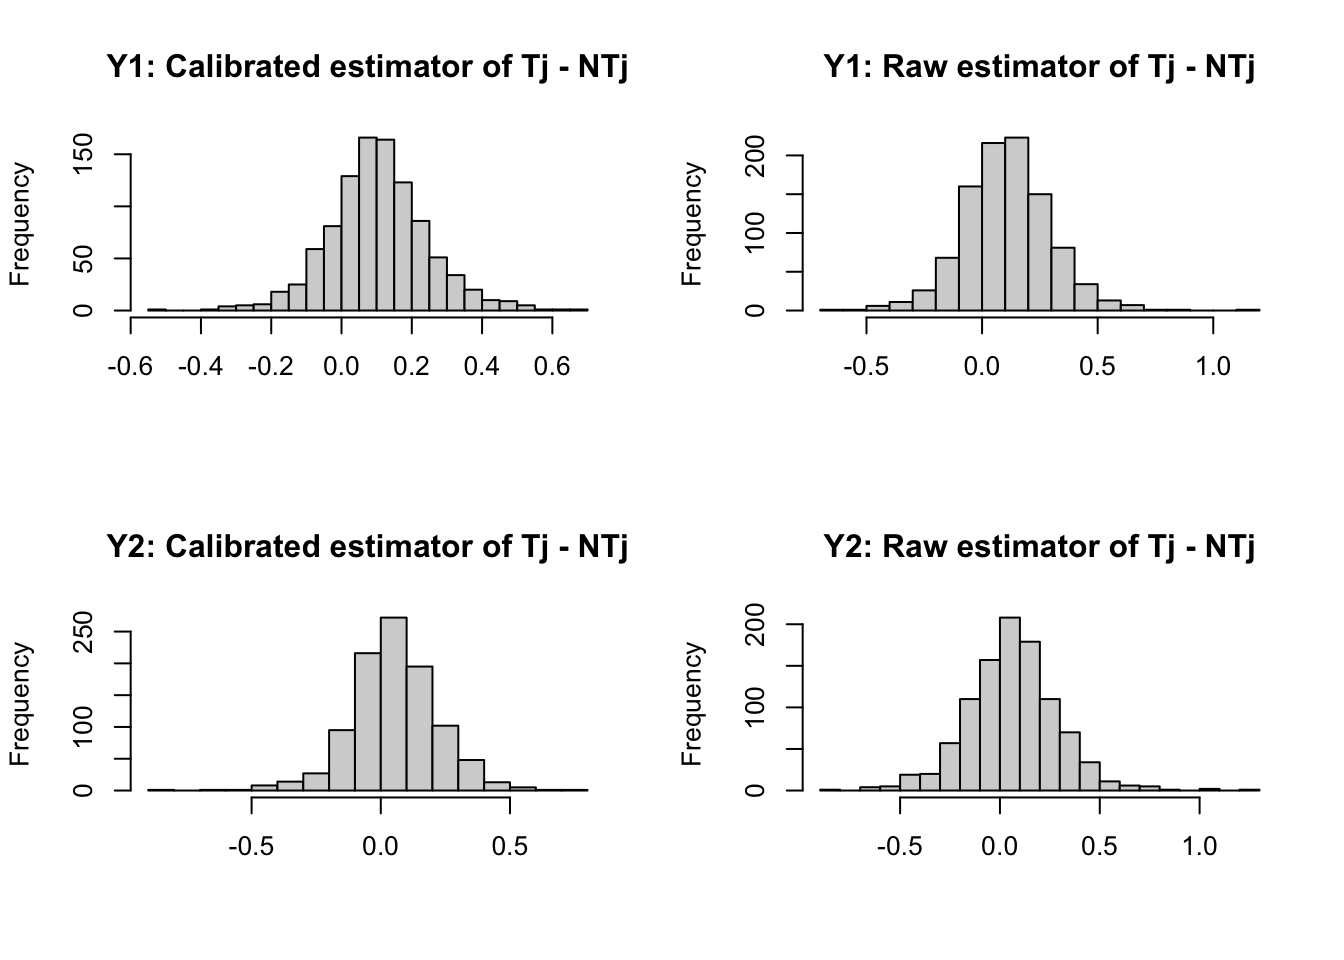
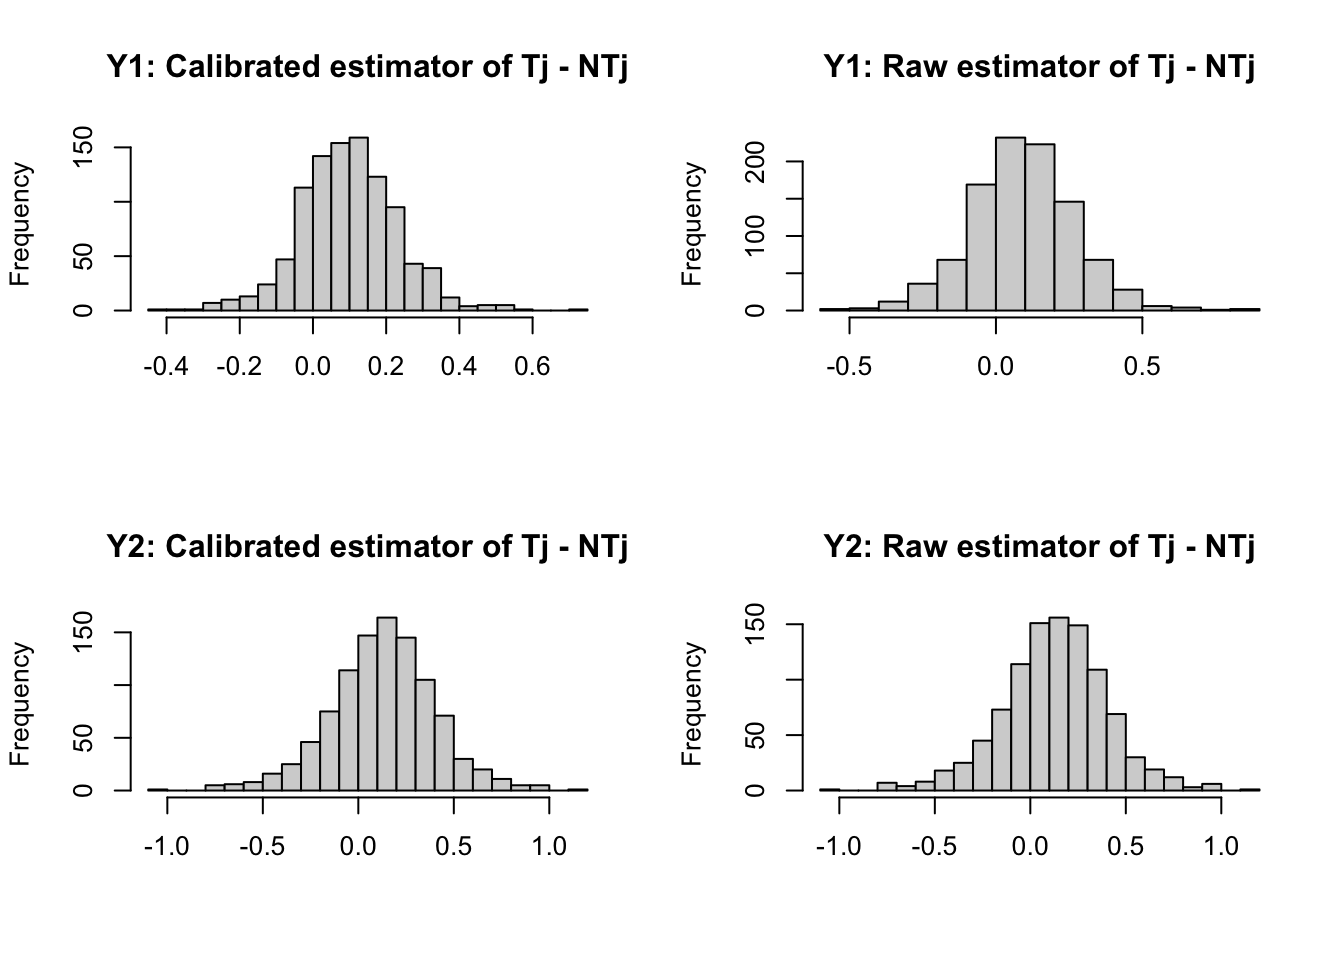
Build site.

diff --git a/docs/mr_real_dat.html b/docs/mr_real_dat.html
@@ -475,16 +475,16 @@ This reproducible <a href="http://rmarkdown.rstudio.com">R Markdown</a> analysis
 <div class="panel panel-default">
 <div class="panel-heading">
 <p class="panel-title">
-<a data-toggle="collapse" data-parent="#workflowr-checks" href="#strongRepositoryversionstrongahrefhttpsgithubcomyunqiyang0215simulationcalibratedmrtree8b572a268ba35aac732667ae901b18d2a2d4ceabtargetblank8b572a2a"> <span class="glyphicon glyphicon-ok text-success" aria-hidden="true"></span> <strong>Repository version:</strong> <a href="https://github.com/yunqiyang0215/simulation-calibrated-mr/tree/8b572a268ba35aac732667ae901b18d2a2d4ceab" target="_blank">8b572a2</a> </a>
+<a data-toggle="collapse" data-parent="#workflowr-checks" href="#strongRepositoryversionstrongahrefhttpsgithubcomyunqiyang0215simulationcalibratedmrtree8f9d8438a62ade37a087a58dd3231fdb4d3b2c3etargetblank8f9d843a"> <span class="glyphicon glyphicon-ok text-success" aria-hidden="true"></span> <strong>Repository version:</strong> <a href="https://github.com/yunqiyang0215/simulation-calibrated-mr/tree/8f9d8438a62ade37a087a58dd3231fdb4d3b2c3e" target="_blank">8f9d843</a> </a>
 </p>
 </div>
[2 lines of base64/hex data omitted]
 <div class="panel-body">
 <p>
 Great! You are using Git for version control. Tracking code development and connecting the code version to the results is critical for reproducibility.
 </p>
 <p>
-The results in this page were generated with repository version <a href="https://github.com/yunqiyang0215/simulation-calibrated-mr/tree/8b572a268ba35aac732667ae901b18d2a2d4ceab" target="_blank">8b572a2</a>. See the <em>Past versions</em> tab to see a history of the changes made to the R Markdown and HTML files.
+The results in this page were generated with repository version <a href="https://github.com/yunqiyang0215/simulation-calibrated-mr/tree/8f9d8438a62ade37a087a58dd3231fdb4d3b2c3e" target="_blank">8f9d843</a>. See the <em>Past versions</em> tab to see a history of the changes made to the R Markdown and HTML files.
 </p>
 <p>
 Note that you need to be careful to ensure that all relevant files for the analysis have been committed to Git prior to generating the results (you can use <code>wflow_publish</code> or <code>wflow_git_commit</code>). workflowr only checks the R Markdown file, but you know if there are other scripts or data files that it depends on. Below is the status of the Git repository when the results were generated:
@@ -550,6 +550,40 @@ Message
 </tr>
 </thead>
 <tbody>
+<tr>
+<td>
+Rmd
+</td>
+<td>
+<a href="https://github.com/yunqiyang0215/simulation-calibrated-mr/blob/8f9d8438a62ade37a087a58dd3231fdb4d3b2c3e/analysis/mr_real_dat.Rmd" target="_blank">8f9d843</a>
+</td>
+<td>
+yunqiyang0215
+</td>
+<td>
+2023-05-15
+</td>
+<td>
+wflow_publish("analysis/mr_real_dat.Rmd")
+</td>
+</tr>
+<tr>
+<td>
+html
+</td>
+<td>
+<a href="https://rawcdn.githack.com/yunqiyang0215/simulation-calibrated-mr/48ec1a1c43342b13bdff37aedb987981c89a6887/docs/mr_real_dat.html" target="_blank">48ec1a1</a>
+</td>
+<td>
+yunqiyang0215
+</td>
+<td>
+2023-05-15
+</td>
+<td>
+Build site.
+</td>
+</tr>
 <tr>
 <td>
 Rmd
@@ -632,11 +666,11 @@ colnames(y2.raw) &lt;- c(&quot;point_estimate&quot;, &quot;var_estimate&quot;)
 
   
 for (i in 1:p){
-  dat1_valid &lt;- cbind(dat[[&quot;pheno&quot;]][1:n,1], dat[[&quot;T.y1&quot;]][1:n, i], dat[[&quot;NT.y1&quot;]][1:n, i]) 
-  dat1_ext &lt;- cbind(dat[[&quot;pheno&quot;]][,1], dat[[&quot;T.y1&quot;]][, i]) 
+  dat1_valid &lt;- cbind(dat[[&quot;pheno&quot;]][1:n,1], dat[[&quot;trans&quot;]][1:n, i], dat[[&quot;nontrans&quot;]][1:n, i]) 
+  dat1_ext &lt;- cbind(dat[[&quot;pheno&quot;]][,1], dat[[&quot;trans&quot;]][, i]) 
   
-  dat2_valid &lt;- cbind(dat[[&quot;pheno&quot;]][1:n,2], dat[[&quot;T.y2&quot;]][1:n, i], dat[[&quot;NT.y2&quot;]][1:n, i]) 
-  dat2_ext &lt;- cbind(dat[[&quot;pheno&quot;]][, 2], dat[[&quot;T.y2&quot;]][, i]) 
+  dat2_valid &lt;- cbind(dat[[&quot;pheno&quot;]][(1+1e3):(n+1e3),2], dat[[&quot;trans&quot;]][(1+1e3):(n+1e3), i], dat[[&quot;nontrans&quot;]][(1+1e3):(n+1e3), i]) 
+  dat2_ext &lt;- cbind(dat[[&quot;pheno&quot;]][, 2], dat[[&quot;trans&quot;]][, i]) 
   
   res1 &lt;- calibrated_est(dat1_valid, dat1_ext)
   res2 &lt;- calibrated_est(dat2_valid, dat2_ext)
@@ -649,36 +683,36 @@ for (i in 1:p){
 
 head(y1.cali)</code></pre>
 <pre><code>     point_estimate var_estimate
-[1,]     0.20521351  0.008630291
-[2,]     0.15724694  0.011576556
-[3,]     0.05363640  0.017692320
-[4,]     0.08045774  0.009798932
-[5,]     0.02362155  0.009230539
-[6,]     0.04251493  0.007790993</code></pre>
+[1,]     0.01884243  0.010298809
+[2,]     0.30010010  0.013500394
+[3,]     0.28823642  0.016650835
+[4,]     0.11479949  0.008491249
+[5,]     0.12560241  0.010021305
+[6,]     0.04527380  0.008878069</code></pre>
 <pre class="r"><code>head(y1.raw)</code></pre>
 <pre><code>     point_estimate var_estimate
-[1,]     0.28791738   0.28791738
-[2,]     0.09024728   0.09024728
-[3,]     0.23091091   0.23091091
-[4,]    -0.05950607  -0.05950607
-[5,]    -0.06524129  -0.06524129
-[6,]    -0.04931061  -0.04931061</code></pre>
+[1,]    -0.12287716  -0.12287716
+[2,]     0.25809722   0.25809722
+[3,]     0.30302423   0.30302423
+[4,]     0.06831163   0.06831163
+[5,]     0.23996186   0.23996186
+[6,]     0.12136977   0.12136977</code></pre>
 <pre class="r"><code>head(y2.cali)</code></pre>
 <pre><code>     point_estimate var_estimate
-[1,]   -0.005424837   0.01302866
-[2,]   -0.034354525   0.01990419
-[3,]    0.416932176   0.02447715
-[4,]    0.165312944   0.01265551
-[5,]    0.120092840   0.01427000
-[6,]    0.068580960   0.01338770</code></pre>
+[1,]   -0.008610658   0.03776768
+[2,]   -0.066776279   0.04602766
+[3,]    0.321915647   0.06389781
+[4,]    0.433934819   0.03499103
+[5,]    0.195457097   0.03601158
+[6,]    0.391261368   0.03545755</code></pre>
 <pre class="r"><code>head(y2.raw)</code></pre>
 <pre><code>     point_estimate var_estimate
-[1,]    -0.07921504  -0.07921504
-[2,]     0.09972350   0.09972350
-[3,]     0.66543208   0.66543208
-[4,]     0.17820704   0.17820704
-[5,]     0.32908327   0.32908327
-[6,]     0.13552637   0.13552637</code></pre>
+[1,]   -0.009268334 -0.009268334
+[2,]   -0.063871894 -0.063871894
+[3,]    0.320881881  0.320881881
+[4,]    0.432684563  0.432684563
+[5,]    0.208951281  0.208951281
+[6,]    0.403257798  0.403257798</code></pre>
 <pre class="r"><code>par(mfrow = c(2,2))
 hist(y1.cali[,1], main = &quot;Y1: Calibrated estimator of Tj - NTj&quot;, xlab = &quot;&quot;, breaks  = 20)
 hist(y1.raw[,1], main = &quot;Y1: Raw estimator of Tj - NTj&quot;, xlab = &quot;&quot;, breaks  = 20)
@@ -707,6 +741,17 @@ Date
 </tr>
 </thead>
 <tbody>
+<tr>
+<td>
+<a href="https://github.com/yunqiyang0215/simulation-calibrated-mr/blob/48ec1a1c43342b13bdff37aedb987981c89a6887/docs/figure/mr_real_dat.Rmd/unnamed-chunk-3-1.png" target="_blank">48ec1a1</a>
+</td>
+<td>
+yunqiyang0215
+</td>
+<td>
+2023-05-15
+</td>
+</tr>
 <tr>
 <td>
 <a href="https://github.com/yunqiyang0215/simulation-calibrated-mr/blob/8ae0fa6d84330bf02f2b0f2806225fd5b7c77fa5/docs/figure/mr_real_dat.Rmd/unnamed-chunk-3-1.png" target="_blank">8ae0fa6</a>
@@ -750,12 +795,12 @@ Number of Variants =  1000
 
 ------------------------------------------------------------------
       Method Estimate Std Error 95% CI       p-value
-    MR-Egger    0.135     0.052 0.033, 0.237   0.010
- (intercept)    0.017     0.008 0.002, 0.031   0.028
+    MR-Egger    0.458     0.088 0.285, 0.631   0.000
+ (intercept)    0.054     0.013 0.030, 0.079   0.000
 ------------------------------------------------------------------
-Residual Standard Error :  7.439 
-Heterogeneity test statistic = 55224.5264 on 998 degrees of freedom, (p-value = 0.0000)
-I^2_GX statistic: 97.9%</code></pre>
+Residual Standard Error :  4.660 
+Heterogeneity test statistic = 21668.2115 on 998 degrees of freedom, (p-value = 0.0000)
+I^2_GX statistic: 98.2%</code></pre>
 <pre class="r"><code>egger.raw</code></pre>
 <pre><code>
 MR-Egger method
@@ -765,12 +810,11 @@ Number of Variants =  1000
 
 ------------------------------------------------------------------
       Method Estimate Std Error  95% CI       p-value
-    MR-Egger   -0.001     0.001 -0.003, 0.000   0.090
- (intercept)    0.000     0.000  0.000, 0.001   0.047
+    MR-Egger   -0.003     0.006 -0.014, 0.008   0.588
+ (intercept)    0.000     0.000  0.000, 0.001   0.363
 ------------------------------------------------------------------
-Residual Standard Error :  0.999 
-Residual standard error is set to 1 in calculation of confidence interval when its estimate is less than 1.
-Heterogeneity test statistic = 995.8721 on 998 degrees of freedom, (p-value = 0.5131)
+Residual Standard Error :  1.001 
+Heterogeneity test statistic = 999.1713 on 998 degrees of freedom, (p-value = 0.4836)
 I^2_GX statistic: 0.0%</code></pre>
 <pre class="r"><code>ivw.cali</code></pre>
 <pre><code>
@@ -781,10 +825,10 @@ Number of Variants : 1000
 
 ------------------------------------------------------------------
  Method Estimate Std Error 95% CI       p-value
-    IVW    0.229     0.030 0.170, 0.287   0.000
+    IVW    0.766     0.052 0.664, 0.868   0.000
 ------------------------------------------------------------------
-Residual standard error =  7.453 
-Heterogeneity test statistic (Cochran&#39;s Q) = 55490.2488 on 999 degrees of freedom, (p-value = 0.0000). I^2 = 98.2%. </code></pre>
+Residual standard error =  4.700 
+Heterogeneity test statistic (Cochran&#39;s Q) = 22069.3060 on 999 degrees of freedom, (p-value = 0.0000). I^2 = 95.5%. </code></pre>
 <pre class="r"><code>ivw.raw</code></pre>
 <pre><code>
 Inverse-variance weighted method
@@ -794,10 +838,10 @@ Number of Variants : 1000
 
 ------------------------------------------------------------------
  Method Estimate Std Error  95% CI       p-value
-    IVW    0.000     0.001 -0.001, 0.001   0.669
+    IVW    0.000     0.004 -0.009, 0.009   0.996
 ------------------------------------------------------------------
-Residual standard error =  1.000 
-Heterogeneity test statistic (Cochran&#39;s Q) = 999.8167 on 999 degrees of freedom, (p-value = 0.4868). I^2 = 0.1%. </code></pre>
+Residual standard error =  1.001 
+Heterogeneity test statistic (Cochran&#39;s Q) = 1000.0000 on 999 degrees of freedom, (p-value = 0.4851). I^2 = 0.1%. </code></pre>
 <br>
 <p>
 <button type="button" class="btn btn-default btn-workflowr btn-workflowr-sessioninfo" data-toggle="collapse" data-target="#workflowr-sessioninfo" style="display: block;">
